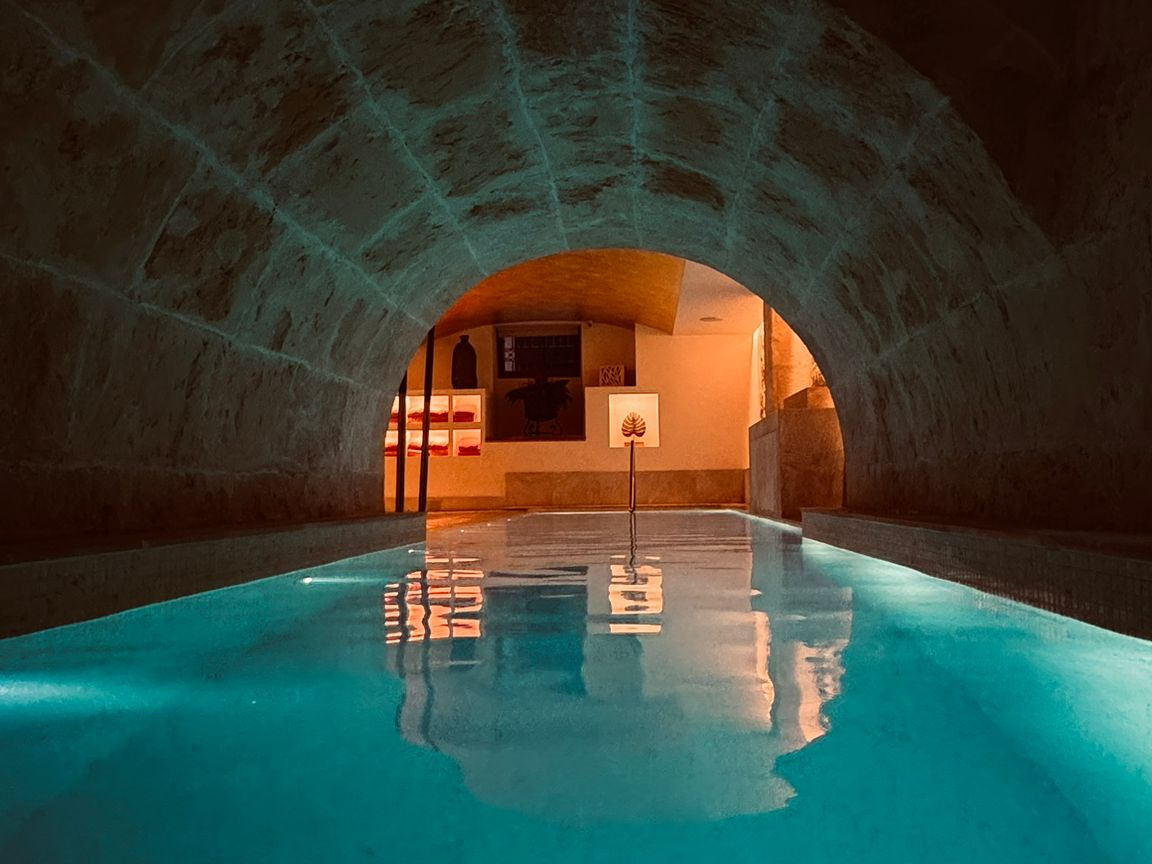
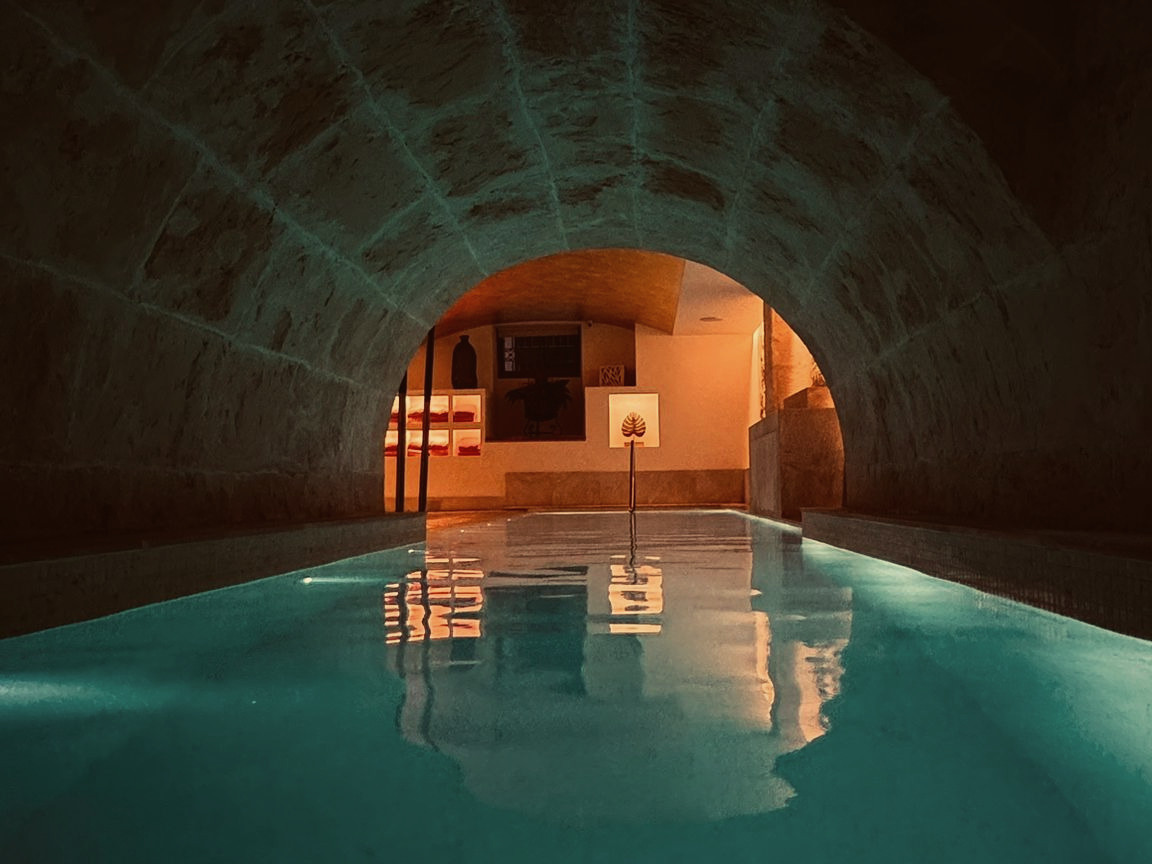
fix: Wellness — hero más alto como el mockup, frase en una línea, tono cálido en sus fotos

Changed region(s): [[0.0, 0.625, 1.0, 1.0], [0.375, 0.4688, 0.4062, 0.5312], [0.6562, 0.5938, 0.6875, 0.625]]

diff --git a/wellness.html b/wellness.html
@@ -12,7 +12,7 @@
 <link rel="preconnect" href="https://fonts.googleapis.com">
 <link rel="preconnect" href="https://fonts.gstatic.com" crossorigin>
 <link rel="stylesheet" href="https://fonts.googleapis.com/css2?family=Cormorant+Garamond:wght@500;600;700&family=Karma:wght@300;400;500;600;700&family=Montserrat:wght@400;500;600&display=swap">
-<link rel="stylesheet" href="css/styles.css?v=38">
+<link rel="stylesheet" href="css/styles.css?v=39">
 <link rel="stylesheet" href="css/concierge.css?v=2">
 </head>
 <body>
@@ -35,7 +35,7 @@
 
 <!-- HERO -->
 <section class="page-hero wl-hero">
-  <img fetchpriority="high" class="bg" src="img/wellness-hero.jpg?v=b1e0c617" alt="The heated pool in the old cistern beneath Glòria">
+  <img fetchpriority="high" class="bg" src="img/wellness-hero.jpg?v=701967a3" alt="The heated pool in the old cistern beneath Glòria">
   <div class="hero-in">
     <span class="eyebrow" style="color:rgba(243,237,226,.85)">Wellness at Glòria</span>
     <h1>A different<br>rhythm.</h1>
@@ -48,7 +48,7 @@
 <!-- 02 BENEATH -->
 <section class="section wl-beneath" id="beneath">
   <div class="wrap two-col text-right">
-    <div class="imgframe" style="aspect-ratio:4/3;height:100%"><img loading="lazy" decoding="async" src="img/wellness-vault.jpg?v=32596fee" alt="Beneath Glòria — cistern pool"></div>
+    <div class="imgframe" style="aspect-ratio:4/3;height:100%"><img loading="lazy" decoding="async" src="img/wellness-vault.jpg?v=9ba731c3" alt="Beneath Glòria — cistern pool"></div>
     <div>
       <span class="eyebrow">Beneath Glòria</span>
       <h2>A hidden sanctuary<br>beneath the house.</h2>
@@ -68,14 +68,14 @@
       <p class="serif-lead wl-quote">“The body remembers what the mind forgets.”</p>
       <div class="stack-cta"><a class="btn btn-dark" href="docs/spa-menu-2026.pdf" target="_blank" rel="noopener" data-track="spa_menu">Explore treatments</a></div>
     </div>
-    <div class="imgframe" style="aspect-ratio:4/3;height:100%"><img loading="lazy" decoding="async" src="img/wellness-treatments-massage.jpg?v=85ec874b" alt="A massage by Eric at Spa by Eric"></div>
+    <div class="imgframe" style="aspect-ratio:4/3;height:100%"><img loading="lazy" decoding="async" src="img/wellness-treatments-massage.jpg?v=952aa0ac" alt="A massage by Eric at Spa by Eric"></div>
   </div>
 </section>
 
 <!-- 04 ABOVE -->
 <section class="section wl-above">
   <div class="wrap two-col text-right">
-    <div class="imgframe" style="aspect-ratio:4/3;height:100%"><img loading="lazy" decoding="async" src="img/wellness-above.jpg?v=ef708fa8" alt="Above Glòria — rooftop pool over Palma"></div>
+    <div class="imgframe" style="aspect-ratio:4/3;height:100%"><img loading="lazy" decoding="async" src="img/wellness-above.jpg?v=d8a2b720" alt="Above Glòria — rooftop pool over Palma"></div>
     <div>
       <span class="eyebrow">Above Glòria</span>
       <h2>Palma from above.</h2>
@@ -97,7 +97,7 @@
       <p class="muted">Swim, pause, step into the sauna or simply find a quiet corner to do nothing at all. At Glòria, there is no schedule for slowing down.</p>
       <div class="stack-cta"><a class="btn btn-dark" href="docs/spa-menu-2026.pdf" target="_blank" rel="noopener" data-track="spa_menu">Explore treatments</a></div>
     </div>
-    <div class="imgframe" style="aspect-ratio:4/3;height:100%"><img loading="lazy" decoding="async" src="img/wellness-take-your-time.jpg?v=32aad10c" alt="A folded towel with the Glòria emblem"></div>
+    <div class="imgframe" style="aspect-ratio:4/3;height:100%"><img loading="lazy" decoding="async" src="img/wellness-take-your-time.jpg?v=a6096281" alt="A folded towel with the Glòria emblem"></div>
   </div>
 </section>
 

diff --git a/index.html b/index.html
@@ -14,7 +14,7 @@
 <link rel="preconnect" href="https://fonts.googleapis.com">
 <link rel="preconnect" href="https://fonts.gstatic.com" crossorigin>
 <link rel="stylesheet" href="https://fonts.googleapis.com/css2?family=Cormorant+Garamond:wght@500;600;700&family=Karma:wght@300;400;500;600;700&family=Montserrat:wght@400;500;600&display=swap">
-<link rel="stylesheet" href="css/styles.css?v=38">
+<link rel="stylesheet" href="css/styles.css?v=39">
 <link rel="stylesheet" href="css/concierge.css?v=2">
 <meta property="og:type" content="website">
 <meta property="og:site_name" content="Glòria de Sant Jaume">

diff --git a/experiences.html b/experiences.html
@@ -12,7 +12,7 @@
 <link rel="preconnect" href="https://fonts.googleapis.com">
 <link rel="preconnect" href="https://fonts.gstatic.com" crossorigin>
 <link rel="stylesheet" href="https://fonts.googleapis.com/css2?family=Cormorant+Garamond:wght@500;600;700&family=Karma:wght@300;400;500;600;700&family=Montserrat:wght@400;500;600&display=swap">
-<link rel="stylesheet" href="css/styles.css?v=38">
+<link rel="stylesheet" href="css/styles.css?v=39">
 <link rel="stylesheet" href="css/concierge.css?v=2">
 <style>
   .exp-hero{position:relative;min-height:74vh;display:flex;align-items:center;color:var(--cream);

diff --git a/css/styles.css b/css/styles.css
@@ -1217,3 +1217,7 @@ html,body{overflow-x:clip}                       /* el menú móvil fuera de pan
 @media (max-width:900px){ .quote-band{flex-direction:column} .wl-feats li{max-width:64px} }
 .wl-feats svg{width:34px;height:34px;opacity:.9}
 .wl-feats span{font-size:.58rem}
+.wl-hero{min-height:clamp(540px,44vw,700px)!important;align-items:center}
+.wl-hero .hero-in{padding-top:clamp(70px,6vw,100px)}
+.quote-band p{max-width:none!important;white-space:nowrap}
+@media (max-width:900px){ .quote-band p{white-space:normal} .wl-hero{min-height:88svh!important} }

diff --git a/cookies.html b/cookies.html
@@ -12,7 +12,7 @@
 <link rel="preconnect" href="https://fonts.googleapis.com">
 <link rel="preconnect" href="https://fonts.gstatic.com" crossorigin>
 <link rel="stylesheet" href="https://fonts.googleapis.com/css2?family=Cormorant+Garamond:wght@500;600;700&family=Karma:wght@300;400;500;600;700&family=Montserrat:wght@400;500;600&display=swap">
-<link rel="stylesheet" href="css/styles.css?v=38">
+<link rel="stylesheet" href="css/styles.css?v=39">
 <link rel="stylesheet" href="css/concierge.css?v=2">
 <link rel="stylesheet" href="css/legal.css?v=4">
 </head>

diff --git a/legal.html b/legal.html
@@ -12,7 +12,7 @@
 <link rel="preconnect" href="https://fonts.googleapis.com">
 <link rel="preconnect" href="https://fonts.gstatic.com" crossorigin>
 <link rel="stylesheet" href="https://fonts.googleapis.com/css2?family=Cormorant+Garamond:wght@500;600;700&family=Karma:wght@300;400;500;600;700&family=Montserrat:wght@400;500;600&display=swap">
-<link rel="stylesheet" href="css/styles.css?v=38">
+<link rel="stylesheet" href="css/styles.css?v=39">
 <link rel="stylesheet" href="css/concierge.css?v=2">
 <link rel="stylesheet" href="css/legal.css?v=4">
 </head>

diff --git a/privacy.html b/privacy.html
@@ -12,7 +12,7 @@
 <link rel="preconnect" href="https://fonts.googleapis.com">
 <link rel="preconnect" href="https://fonts.gstatic.com" crossorigin>
 <link rel="stylesheet" href="https://fonts.googleapis.com/css2?family=Cormorant+Garamond:wght@500;600;700&family=Karma:wght@300;400;500;600;700&family=Montserrat:wght@400;500;600&display=swap">
-<link rel="stylesheet" href="css/styles.css?v=38">
+<link rel="stylesheet" href="css/styles.css?v=39">
 <link rel="stylesheet" href="css/concierge.css?v=2">
 <link rel="stylesheet" href="css/legal.css?v=4">
 </head>

diff --git a/el-patio.html b/el-patio.html
@@ -12,7 +12,7 @@
 <link rel="preconnect" href="https://fonts.googleapis.com">
 <link rel="preconnect" href="https://fonts.gstatic.com" crossorigin>
 <link rel="stylesheet" href="https://fonts.googleapis.com/css2?family=Cormorant+Garamond:wght@500;600;700&family=Karma:wght@300;400;500;600;700&family=Montserrat:wght@400;500;600&display=swap">
-<link rel="stylesheet" href="css/styles.css?v=38">
+<link rel="stylesheet" href="css/styles.css?v=39">
 <link rel="stylesheet" href="css/concierge.css?v=2">
 </head>
 <body>

diff --git a/palma.html b/palma.html
@@ -12,7 +12,7 @@
 <link rel="preconnect" href="https://fonts.googleapis.com">
 <link rel="preconnect" href="https://fonts.gstatic.com" crossorigin>
 <link rel="stylesheet" href="https://fonts.googleapis.com/css2?family=Cormorant+Garamond:wght@500;600;700&family=Karma:wght@300;400;500;600;700&family=Montserrat:wght@400;500;600&display=swap">
-<link rel="stylesheet" href="css/styles.css?v=38">
+<link rel="stylesheet" href="css/styles.css?v=39">
 <link rel="stylesheet" href="css/concierge.css?v=2">
 </head>
 <body>

diff --git a/rooms.html b/rooms.html
@@ -12,7 +12,7 @@
 <link rel="preconnect" href="https://fonts.googleapis.com">
 <link rel="preconnect" href="https://fonts.gstatic.com" crossorigin>
 <link rel="stylesheet" href="https://fonts.googleapis.com/css2?family=Cormorant+Garamond:wght@500;600;700&family=Karma:wght@300;400;500;600;700&family=Montserrat:wght@400;500;600&display=swap">
-<link rel="stylesheet" href="css/styles.css?v=38">
+<link rel="stylesheet" href="css/styles.css?v=39">
 <link rel="stylesheet" href="css/concierge.css?v=2">
 </head>
 <body>

diff --git a/the-house.html b/the-house.html
@@ -12,7 +12,7 @@
 <link rel="preconnect" href="https://fonts.googleapis.com">
 <link rel="preconnect" href="https://fonts.gstatic.com" crossorigin>
 <link rel="stylesheet" href="https://fonts.googleapis.com/css2?family=Cormorant+Garamond:wght@500;600;700&family=Karma:wght@300;400;500;600;700&family=Montserrat:wght@400;500;600&display=swap">
-<link rel="stylesheet" href="css/styles.css?v=38">
+<link rel="stylesheet" href="css/styles.css?v=39">
 <link rel="stylesheet" href="css/concierge.css?v=2">
 </head>
 <body>
